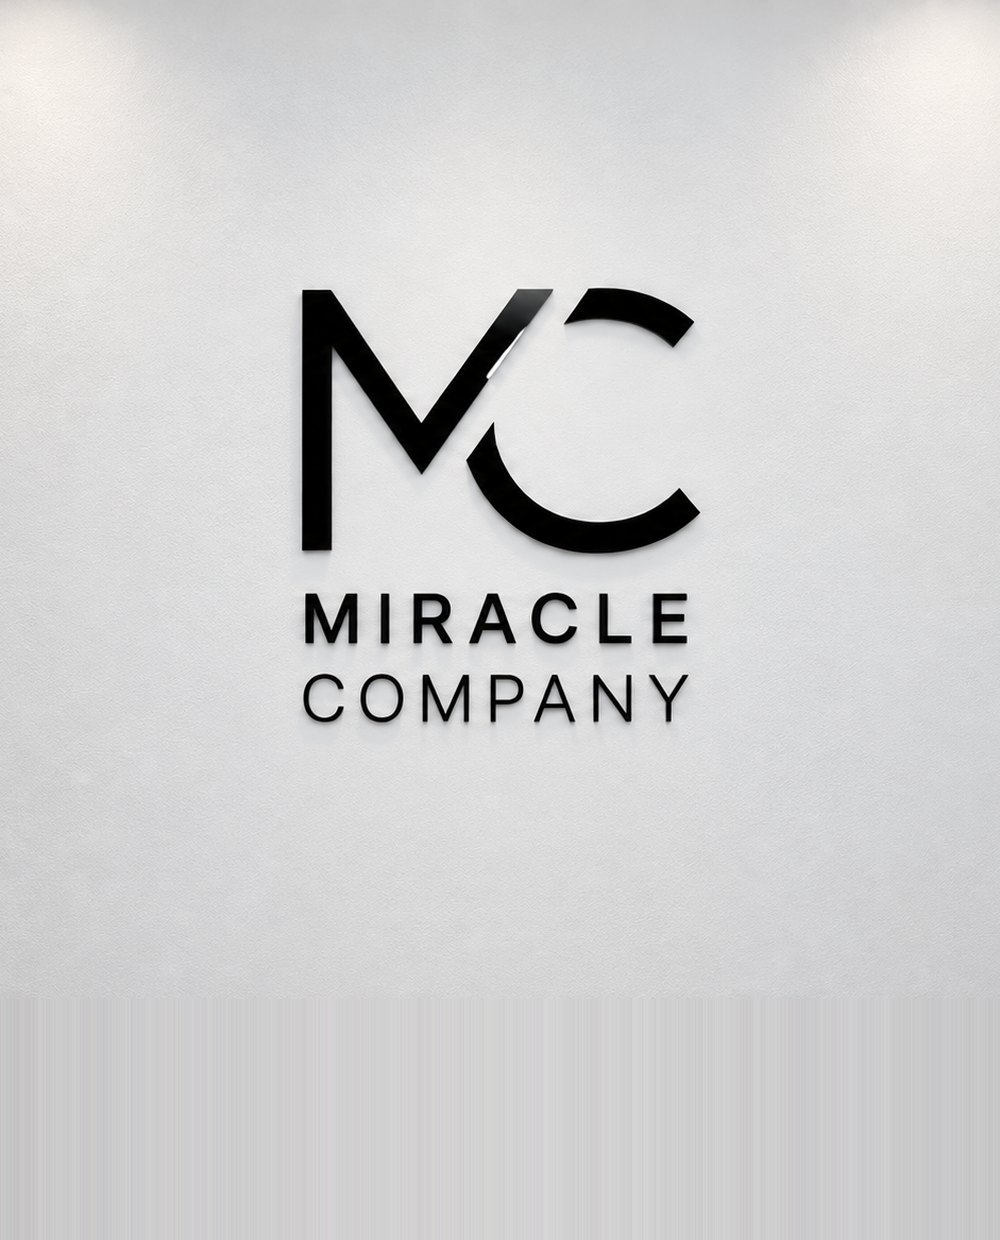
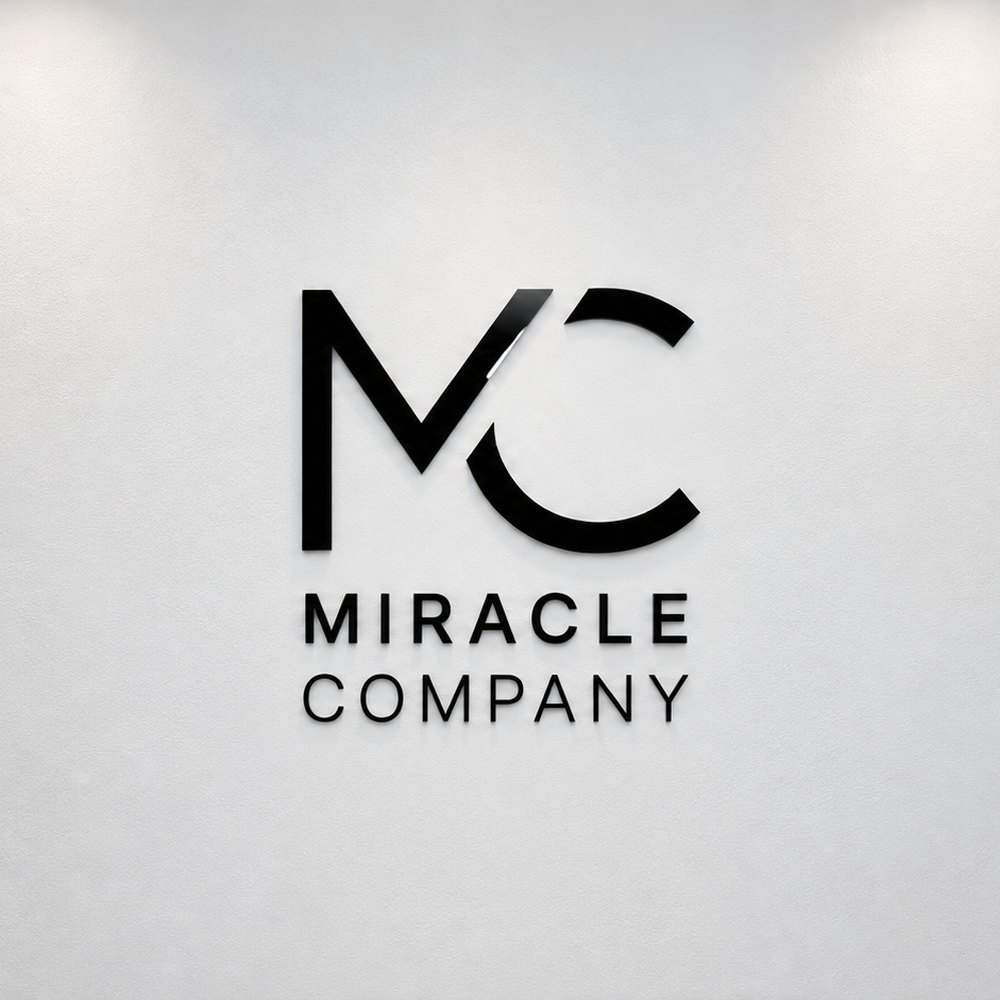
모바일 첫 화면 사진: 늘린 부분 제거, 정사각 원본으로 로고 정중앙

Changed region(s): [[0.279, 0.217, 0.713, 0.744]]

diff --git a/index.html b/index.html
@@ -945,7 +945,7 @@ footer .bottom{border-top-color:#1E1E1E}
 @media (max-width:900px){
   .hero .hbg{display:none}
   .hmob{display:block;width:calc(100% + 2*var(--gut));margin:4px calc(-1*var(--gut)) -5%}
-  .hmob img{display:block;width:100%;height:auto;aspect-ratio:1000/1240;object-fit:cover;-webkit-mask-image:linear-gradient(180deg,transparent 0,rgba(0,0,0,.12) 4%,rgba(0,0,0,.45) 9%,rgba(0,0,0,.82) 15%,#000 21%,#000 79%,rgba(0,0,0,.82) 85%,rgba(0,0,0,.45) 91%,rgba(0,0,0,.12) 96%,transparent 100%);mask-image:linear-gradient(180deg,transparent 0,rgba(0,0,0,.12) 4%,rgba(0,0,0,.45) 9%,rgba(0,0,0,.82) 15%,#000 21%,#000 79%,rgba(0,0,0,.82) 85%,rgba(0,0,0,.45) 91%,rgba(0,0,0,.12) 96%,transparent 100%)}
+  .hmob img{display:block;width:100%;height:auto;aspect-ratio:1/1;object-fit:cover;-webkit-mask-image:linear-gradient(180deg,transparent 0,rgba(0,0,0,.12) 4%,rgba(0,0,0,.45) 9%,rgba(0,0,0,.82) 15%,#000 21%,#000 79%,rgba(0,0,0,.82) 85%,rgba(0,0,0,.45) 91%,rgba(0,0,0,.12) 96%,transparent 100%);mask-image:linear-gradient(180deg,transparent 0,rgba(0,0,0,.12) 4%,rgba(0,0,0,.45) 9%,rgba(0,0,0,.82) 15%,#000 21%,#000 79%,rgba(0,0,0,.82) 85%,rgba(0,0,0,.45) 91%,rgba(0,0,0,.12) 96%,transparent 100%)}
   .hero .wrap{margin-top:0;padding-top:36px}
   .hero .act{position:relative;z-index:1}
   .hero .htxt{max-width:none;text-align:center}
@@ -1147,7 +1147,7 @@ p,dd,li,figcaption,small{text-wrap:pretty}
         <span class="hbadge">천안 종합 온라인광고대행사</span>
         <h1>기적은 기다리는 것이 아니라<br>만드는 것입니다.</h1>
         <p class="sub">기획자와 디자이너, 촬영팀이 한 사무실에 있습니다.<br>검색 노출부터 SNS 광고, 카드뉴스와 영상까지 외주 없이 직접 만들고 직접 올립니다.</p>
-        <div class="hmob"><img src="assets/hero-mobile.jpg?v=7" alt="미라클컴퍼니 사무실 로고 벽"></div>
+        <div class="hmob"><img src="assets/hero-mobile.jpg?v=8" alt="미라클컴퍼니 사무실 로고 벽"></div>
         <div class="act"><a class="pill white" href="#contact" data-go="contact"><svg><use href="#i-kakao"/></svg>광고 서비스 문의</a><a class="pill line" href="#service" data-go="service"><svg><use href="#i-grid"/></svg>서비스 보기</a></div>
       </div>
       <div class="hstats">
